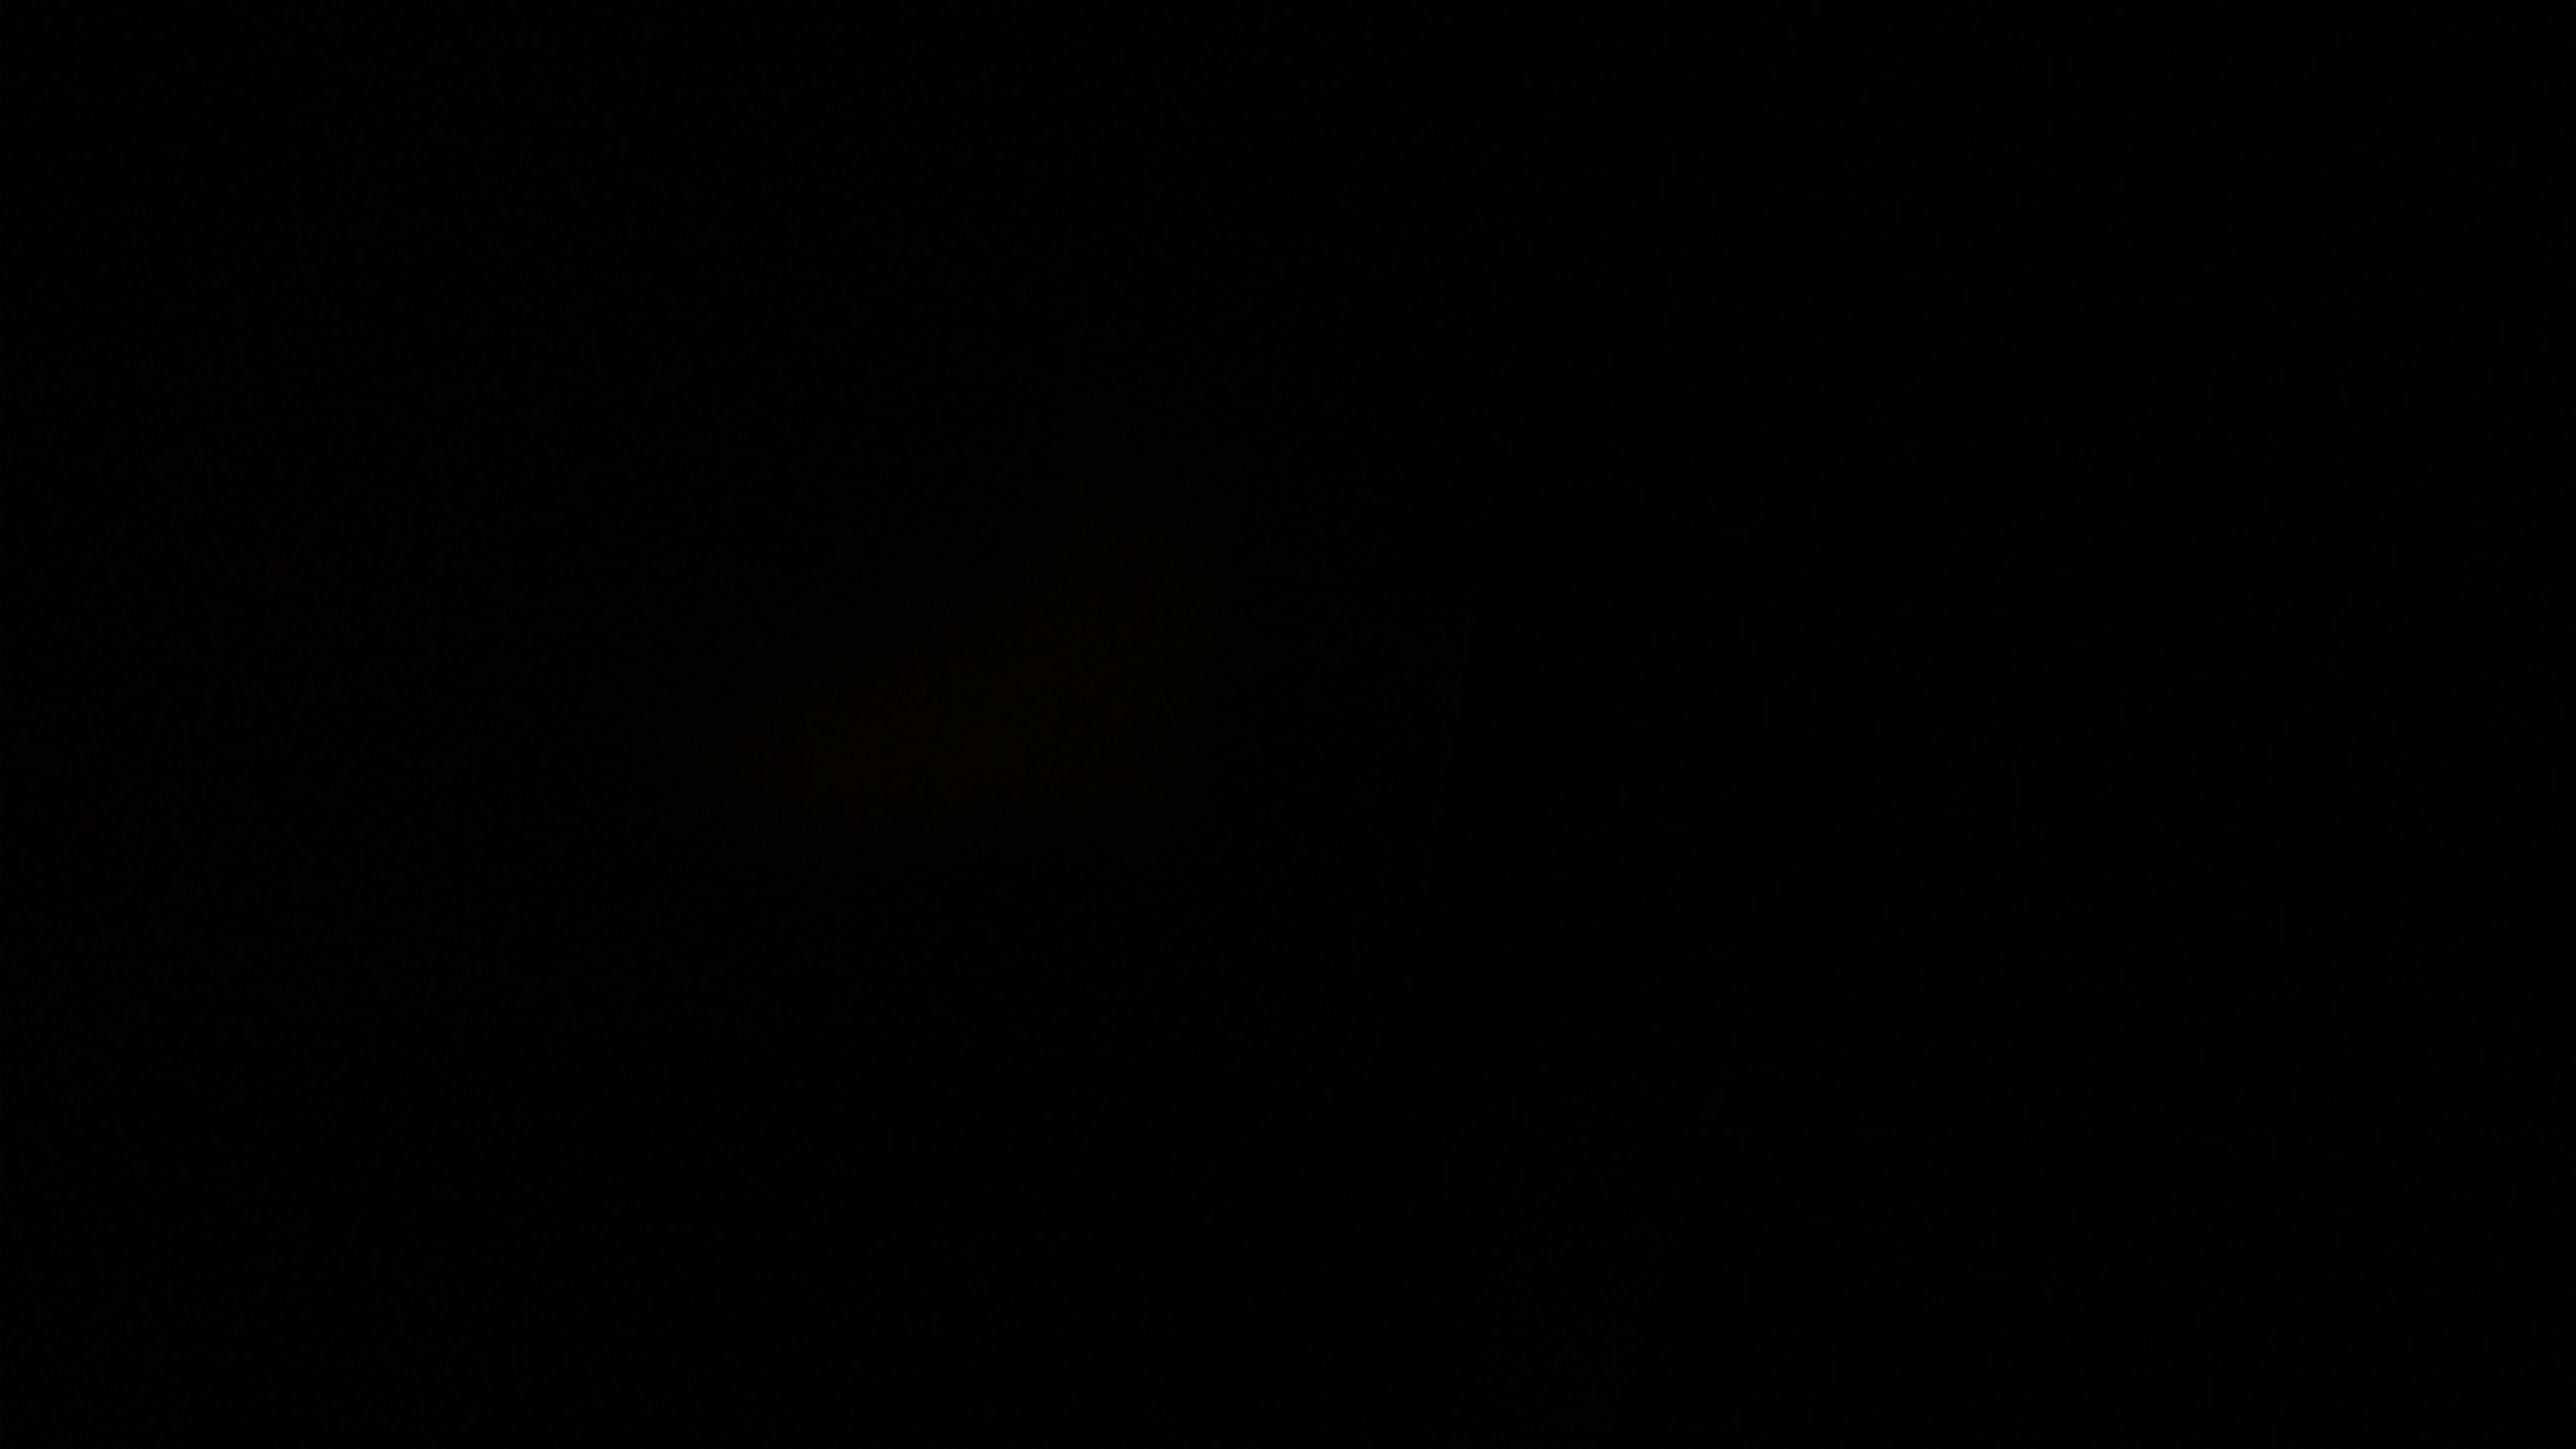
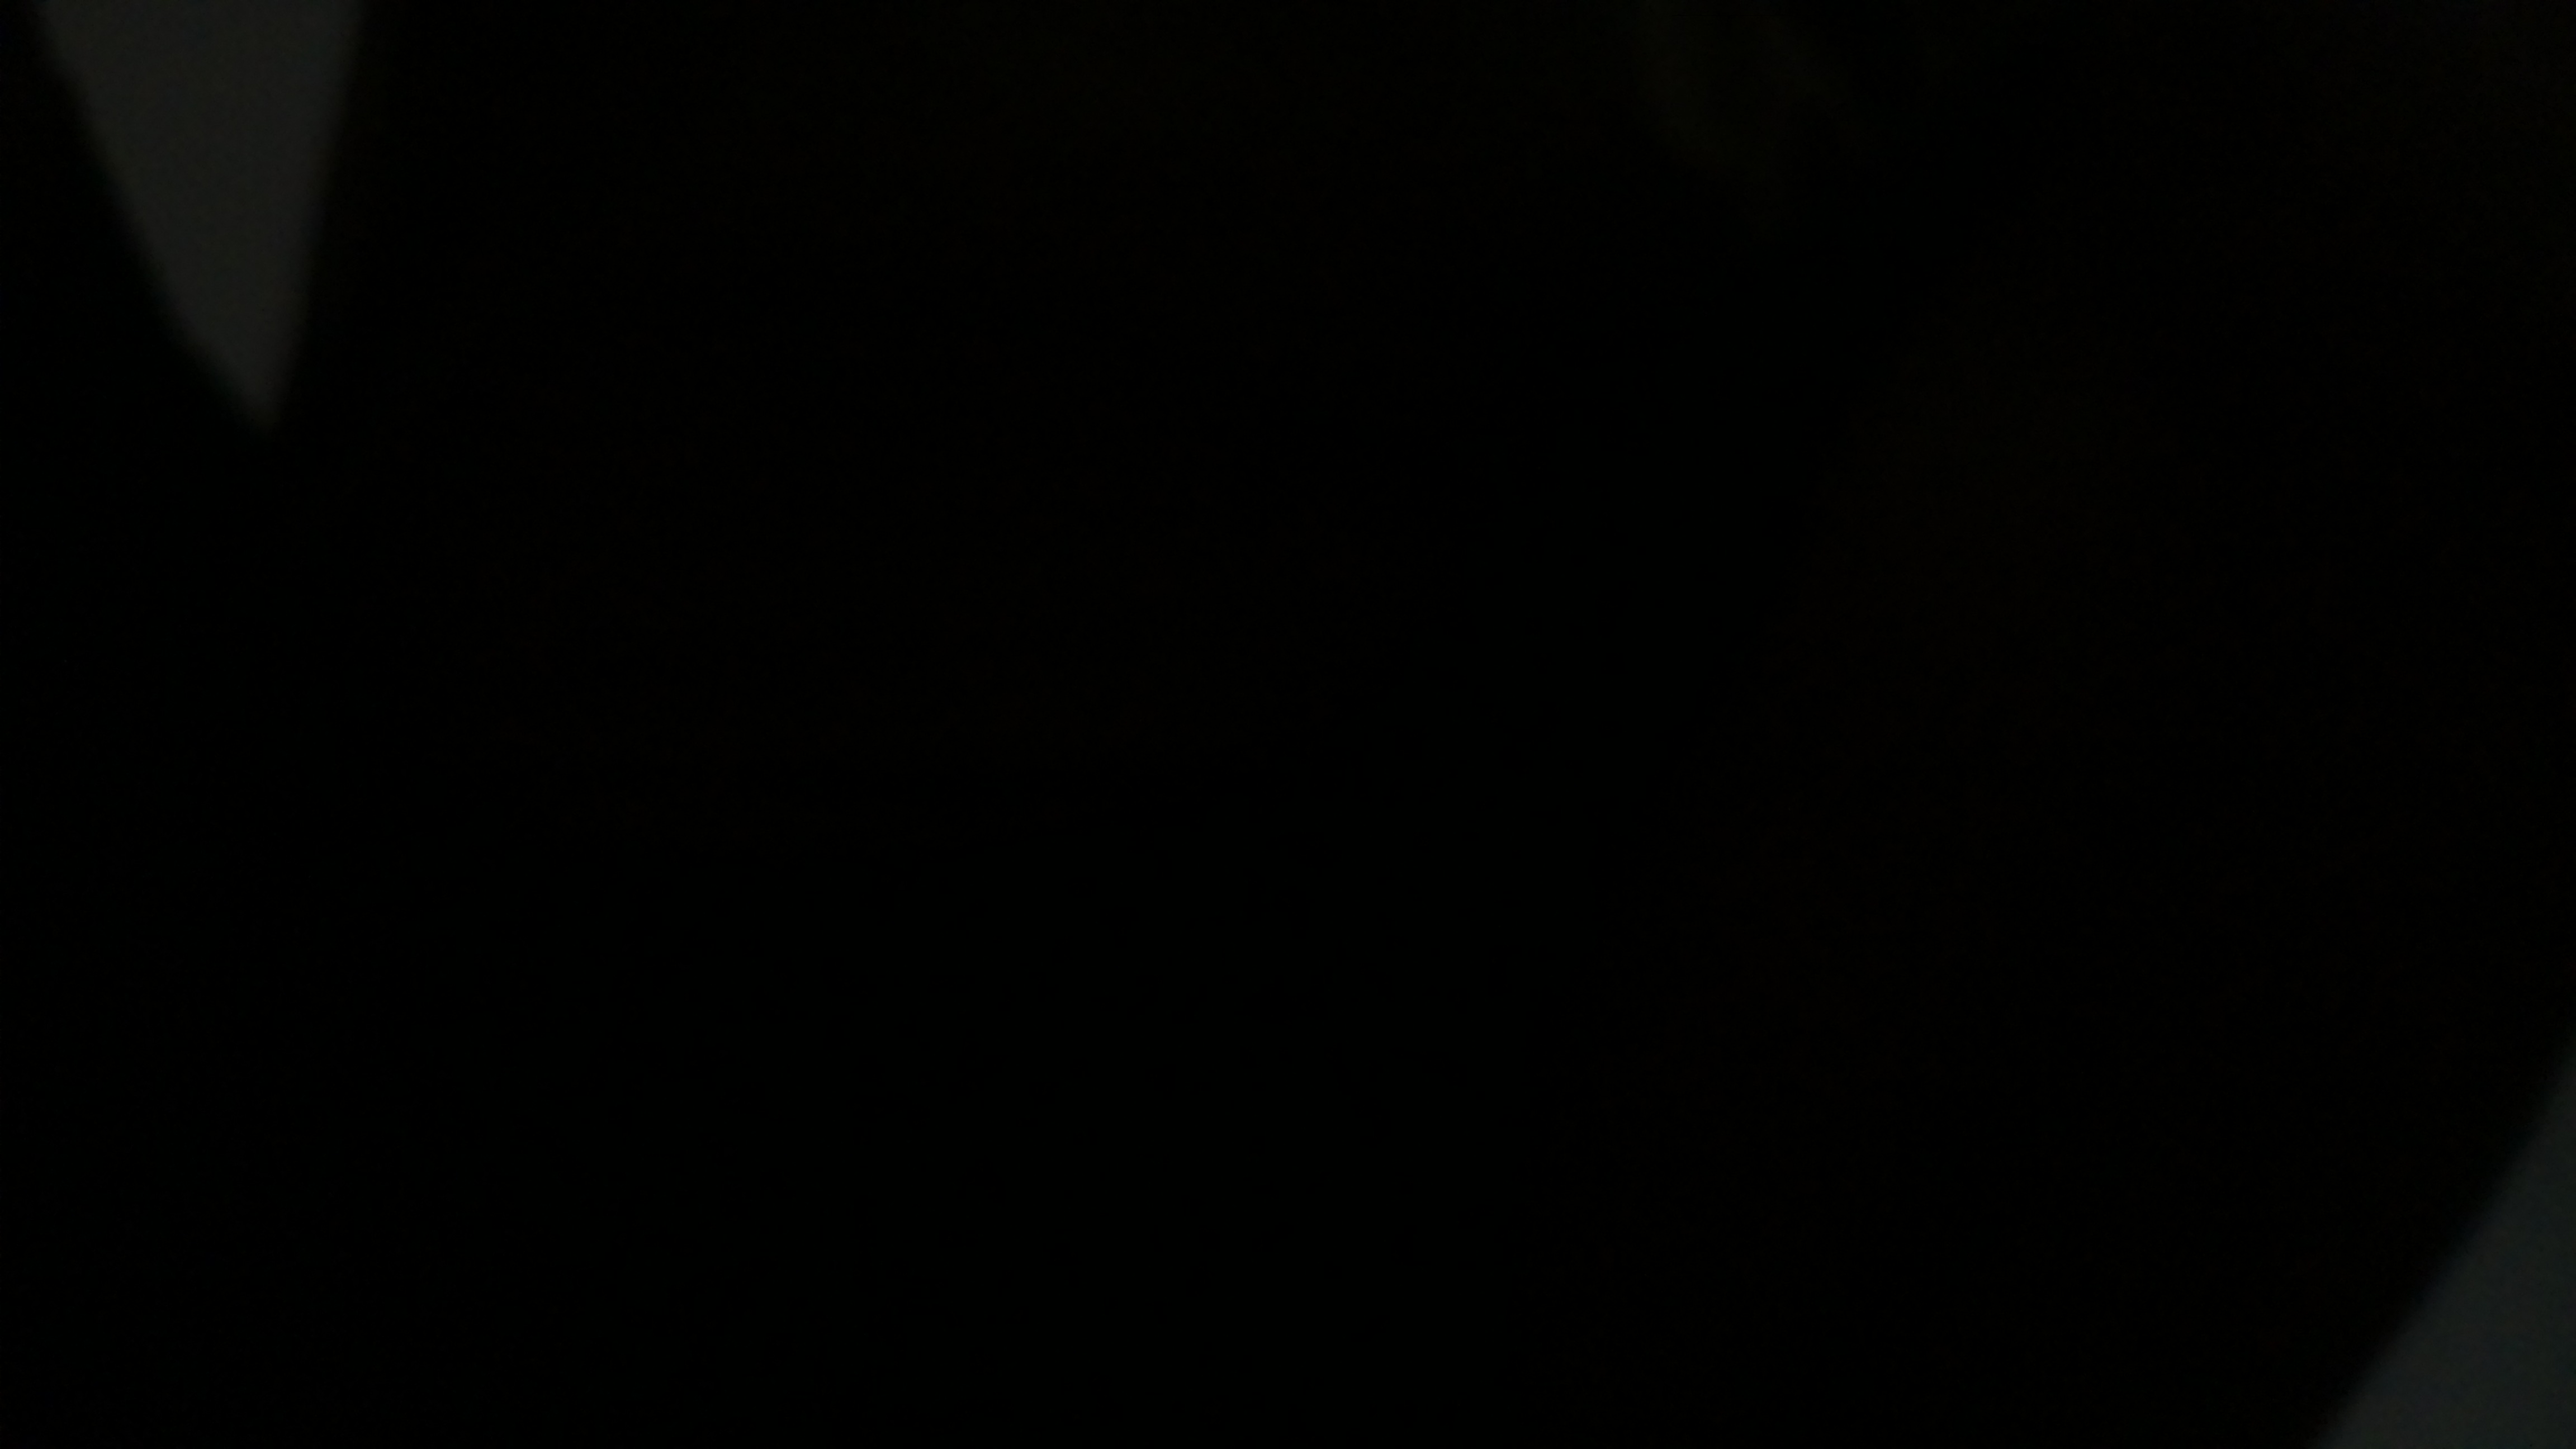
add live video scripts and page

Changed region(s): [[0.9062, 0.8125, 1.0, 1.0], [0.0312, 0.0312, 0.125, 0.2188]]

diff --git a/backindex.html b/backindex.html
@@ -82,14 +82,12 @@
     <button onclick="phoneLightOff()">📱❌Lens OFF</button>
 
     <button onclick="cleanup()">🧹Clean</button>
-
-    <button onclick="startLive()">🎥Live</button>
 </div>
 
 <div id="output"></div>
 
 <img id="preview" src="" alt="Latest photo will appear here">
-<img id="live" src="" alt="Live camera stream">
+<video id="live" autoplay muted playsinline controls src="/live.m3u8"></video>
 
 <script>
 
@@ -107,42 +105,6 @@ function loadLatestImage() {
                 document.getElementById("preview").src = filename + "?t=" + Date.now();
             }
         });
-}
-
-/* -------------------------
-   START LIVE STREAM
-------------------------- */
-function startLive() {
-    fetch("/cgi-bin/startcam.sh")
-        .then(r => r.text())
-        .then(t => {
-            document.getElementById("output").innerText = t;
-            showLive();
-        });
-}
-
-function showLive() {
-    liveMode = true;
-
-    const live = document.getElementById("live");
-    const preview = document.getElementById("preview");
-
-    preview.style.display = "none";
-    live.style.display = "block";
-
-    live.src = "http://" + location.hostname + ":8000/";
-}
-
-function showPhoto() {
-    liveMode = false;
-
-    const live = document.getElementById("live");
-    const preview = document.getElementById("preview");
-
-    live.style.display = "none";
-    preview.style.display = "block";
-
-    live.src = "";
 }
 
 /* -------------------------
@@ -181,6 +143,41 @@ function readLight() {
         .then(t => {
             document.getElementById("output").innerText = t;
         });
+}
+
+/* -------------------------
+   LIVE VIDEO
+------------------------- */
+function toggleLive() {
+    if (liveMode) {
+        showPhoto();
+    } else {
+        showLive();
+    }
+}
+
+function showLive() {
+    liveMode = true;
+
+    const live = document.getElementById("live");
+    const preview = document.getElementById("preview");
+
+    preview.style.display = "none";
+    live.style.display = "block";
+
+    live.src = "http://" + location.hostname + ":8081";
+}
+
+function showPhoto() {
+    liveMode = false;
+
+    const live = document.getElementById("live");
+    const preview = document.getElementById("preview");
+
+    live.style.display = "none";
+    preview.style.display = "block";
+
+    live.src = "";
 }
 
 /* -------------------------
